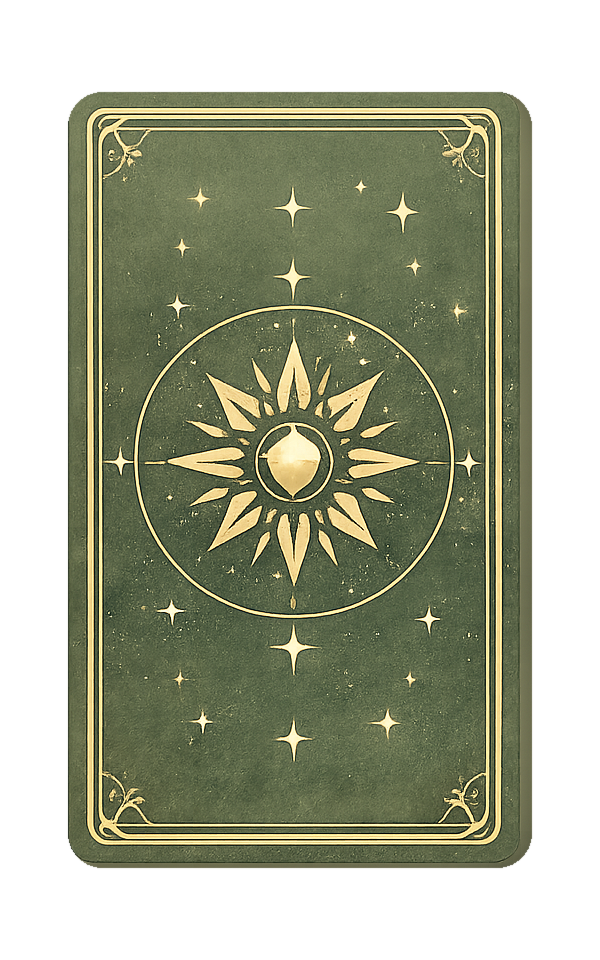
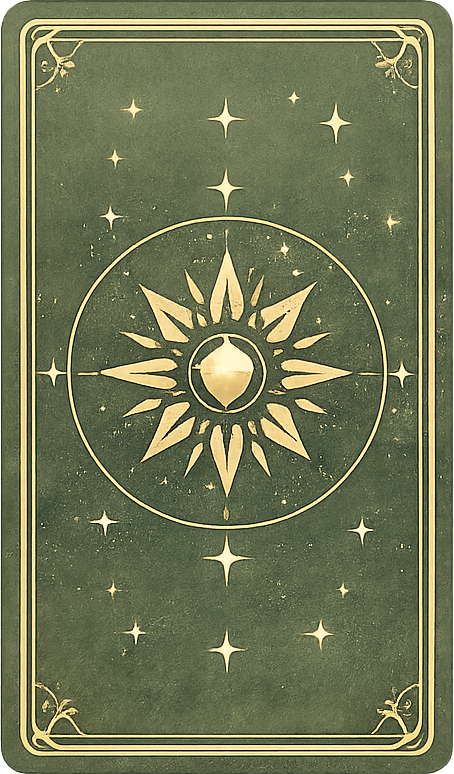
Add files via upload

diff --git a/style.css b/style.css
@@ -2503,7 +2503,7 @@ textarea{width:100%;min-height:190px;border:1px solid rgba(57,91,68,.17);border-
 
 
 /* =========================================================
-   Inneroot V7.0 — Daily Draw single-card redesign only
+   Inneroot V7.1 — Dream Draw single-card experience
    ========================================================= */
 .modal-card:has(.draw-v70){
   width:min(580px,96vw);
@@ -2512,7 +2512,7 @@ textarea{width:100%;min-height:190px;border:1px solid rgba(57,91,68,.17);border-
   border:1px solid rgba(255,255,255,.88);
   background:
     linear-gradient(rgba(255,253,246,.28),rgba(249,251,244,.40)),
-    url("daily-draw-background.jpg?v=7.0.0") center/cover no-repeat;
+    url("daily-draw-background.jpg?v=7.1.0") center/cover no-repeat;
   box-shadow:0 30px 90px rgba(39,64,47,.25);
 }
 
@@ -2663,4 +2663,61 @@ textarea{width:100%;min-height:190px;border:1px solid rgba(57,91,68,.17);border-
   .draw-v70-scene{min-height:310px}
   .draw-v70-cardback{width:172px}
   .draw-v70-glow{width:235px;height:235px}
+}
+
+
+/* V7.1 Dream Draw: water ripple and reveal transition */
+.draw-v70-ripple{
+  position:absolute;
+  left:50%;
+  bottom:40px;
+  width:245px;
+  height:54px;
+  transform:translateX(-50%);
+  border:1px solid rgba(221,196,126,.46);
+  border-radius:50%;
+  box-shadow:
+    0 0 0 12px rgba(255,255,255,.13),
+    0 0 36px rgba(246,226,166,.34);
+  opacity:.74;
+  animation:drawV71Ripple 3.6s ease-in-out infinite;
+}
+.draw-v70-cardback{
+  transform-origin:center center;
+  will-change:transform,opacity,filter;
+}
+.draw-v70-cardback.is-revealing{
+  animation:drawV71Reveal .9s cubic-bezier(.2,.72,.22,1) forwards;
+}
+.draw-v70.is-revealing .draw-v70-glow{
+  animation:drawV71Flash .9s ease forwards;
+}
+.draw-v70.is-revealing .draw-v70-ripple{
+  animation:drawV71RippleBurst .9s ease-out forwards;
+}
+.draw-v70-button:disabled{
+  cursor:default;
+  opacity:.82;
+}
+@keyframes drawV71Ripple{
+  0%,100%{transform:translateX(-50%) scale(.92);opacity:.44}
+  50%{transform:translateX(-50%) scale(1.08);opacity:.82}
+}
+@keyframes drawV71Reveal{
+  0%{transform:translateY(0) rotateY(0) scale(1);opacity:1;filter:drop-shadow(0 23px 25px rgba(42,65,46,.25))}
+  48%{transform:translateY(-18px) rotateY(82deg) scale(1.06);opacity:.95;filter:drop-shadow(0 32px 34px rgba(42,65,46,.28)) brightness(1.08)}
+  100%{transform:translateY(-28px) rotateY(90deg) scale(1.1);opacity:0;filter:drop-shadow(0 38px 40px rgba(42,65,46,.12)) brightness(1.18)}
+}
+@keyframes drawV71Flash{
+  0%{opacity:.7;transform:scale(.96)}
+  55%{opacity:1;transform:scale(1.17)}
+  100%{opacity:.18;transform:scale(1.28)}
+}
+@keyframes drawV71RippleBurst{
+  0%{opacity:.62;transform:translateX(-50%) scale(.94)}
+  100%{opacity:0;transform:translateX(-50%) scale(1.55)}
+}
+@media (prefers-reduced-motion:reduce){
+  .draw-v70-cardback,.draw-v70-glow,.draw-v70-ripple{animation:none!important}
+  .draw-v70-cardback.is-revealing{opacity:0;transition:opacity .2s ease}
 }

diff --git a/index.html b/index.html
@@ -5,7 +5,7 @@
   <meta name="viewport" content="width=device-width, initial-scale=1">
   <title>Inneroot</title>
   <meta name="description" content="與潛意識對話，遇見真正的自己。">
-  <link rel="stylesheet" href="style.css?v=7.0.0">
+  <link rel="stylesheet" href="style.css?v=7.1.0">
   <link rel="stylesheet" href="fix-v48.css?v=4.8.0">
   <link rel="stylesheet" href="fix-v49.css?v=4.9.0">
   <link rel="stylesheet" href="fix-v50.css?v=5.0.0">
@@ -117,6 +117,6 @@
   </div>
 
   <div id="toast" class="toast" hidden></div>
-  <script src="script.js?v=7.0.0"></script>
+  <script src="script.js?v=7.1.0"></script>
 </body>
 </html>

diff --git a/script.js b/script.js
@@ -150,7 +150,7 @@ function closeModal(){
   document.body.classList.remove("modal-open");
 }
 function showToast(t){toast.textContent=t;toast.hidden=false;clearTimeout(showToast.x);showToast.x=setTimeout(()=>toast.hidden=true,1700)}
-function beginDraw(){const old=getDraw();if(old)return showResult(old.card);openModal(`<div class="draw-v70"><p class="eyebrow">DAILY DRAW</p><h2>每日一抽</h2><p class="draw-v70-intro">靜下心，深呼吸，想一想今天最想理解的是什麼。</p><div class="draw-v70-scene"><span class="draw-v70-glow" aria-hidden="true"></span><img class="draw-v70-cardback" src="daily-draw-card-back.png?v=7.0.0" alt="Inneroot 塔羅牌背"></div><p class="draw-v70-note">這張牌不是答案，而是一個陪你聆聽內在的提醒。</p><button class="primary draw-v70-button" id="go">專注當下，開始抽牌 ✦</button></div>`);document.getElementById("go").onclick=()=>{const card=cards[Math.floor(Math.random()*cards.length)];localStorage.setItem("innerootDailyDraw",JSON.stringify({date:today(),card}));touchDailyEntry();showResult(card)}}
+function beginDraw(){const old=getDraw();if(old)return showResult(old.card);openModal(`<div class="draw-v70"><p class="eyebrow">DAILY DRAW</p><h2>每日一抽</h2><p class="draw-v70-intro">靜下心，深呼吸，想一想今天最想理解的是什麼。</p><div class="draw-v70-scene"><span class="draw-v70-glow" aria-hidden="true"></span><span class="draw-v70-ripple" aria-hidden="true"></span><img class="draw-v70-cardback" src="daily-draw-card-back.png?v=7.1.0" alt="Inneroot 塔羅牌背"></div><p class="draw-v70-note">這張牌不是答案，而是一個陪你聆聽內在的提醒。</p><button class="primary draw-v70-button" id="go">專注當下，開始抽牌 ✦</button></div>`);const button=document.getElementById("go");button.onclick=()=>{if(button.disabled)return;button.disabled=true;button.textContent="正在聆聽內在…";const panel=document.querySelector(".draw-v70"),cardback=document.querySelector(".draw-v70-cardback");panel&&panel.classList.add("is-revealing");cardback&&cardback.classList.add("is-revealing");const card=cards[Math.floor(Math.random()*cards.length)];localStorage.setItem("innerootDailyDraw",JSON.stringify({date:today(),card}));touchDailyEntry();setTimeout(()=>showResult(card),900)}}
 function showResult(card){openModal(`<span class="badge">${today()} · 今日牌卡</span><div class="card-stage"><img class="tarot-card" src="${card.file}" alt="${card.zh}"></div><h2>${card.zh}</h2><p><strong>${card.en}</strong></p><p class="result-copy">這張牌不是答案，而是一個邀請。</p><ol class="questions">${card.q.map(x=>`<li>${x}</li>`).join("")}</ol><div class="result-closing"><span class="sprout">🌱</span>下一步，把看到這張牌後最先出現的感受寫下來。<br>不需要寫得完整，只需要對自己誠實。</div><div class="actions"><button class="primary" id="toJournal">前往潛意識日記</button><button class="secondary" id="finishDraw">稍後再寫</button></div>`);document.getElementById("toJournal").onclick=openJournal;document.getElementById("finishDraw").onclick=closeModal}
 function promptText(){
   const d=getDraw();